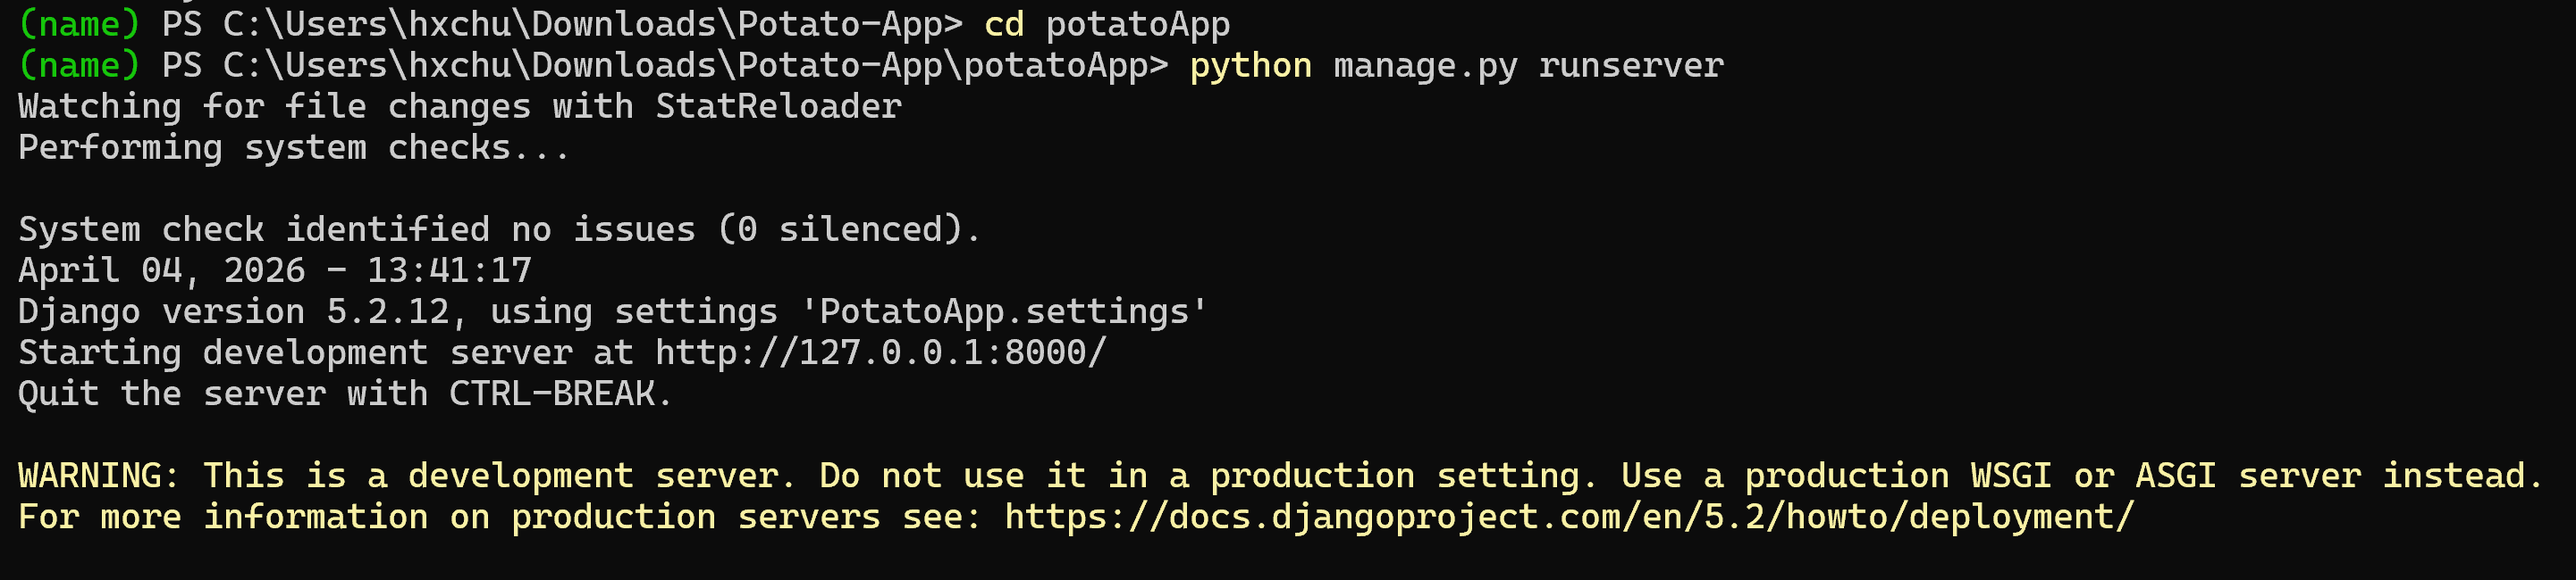
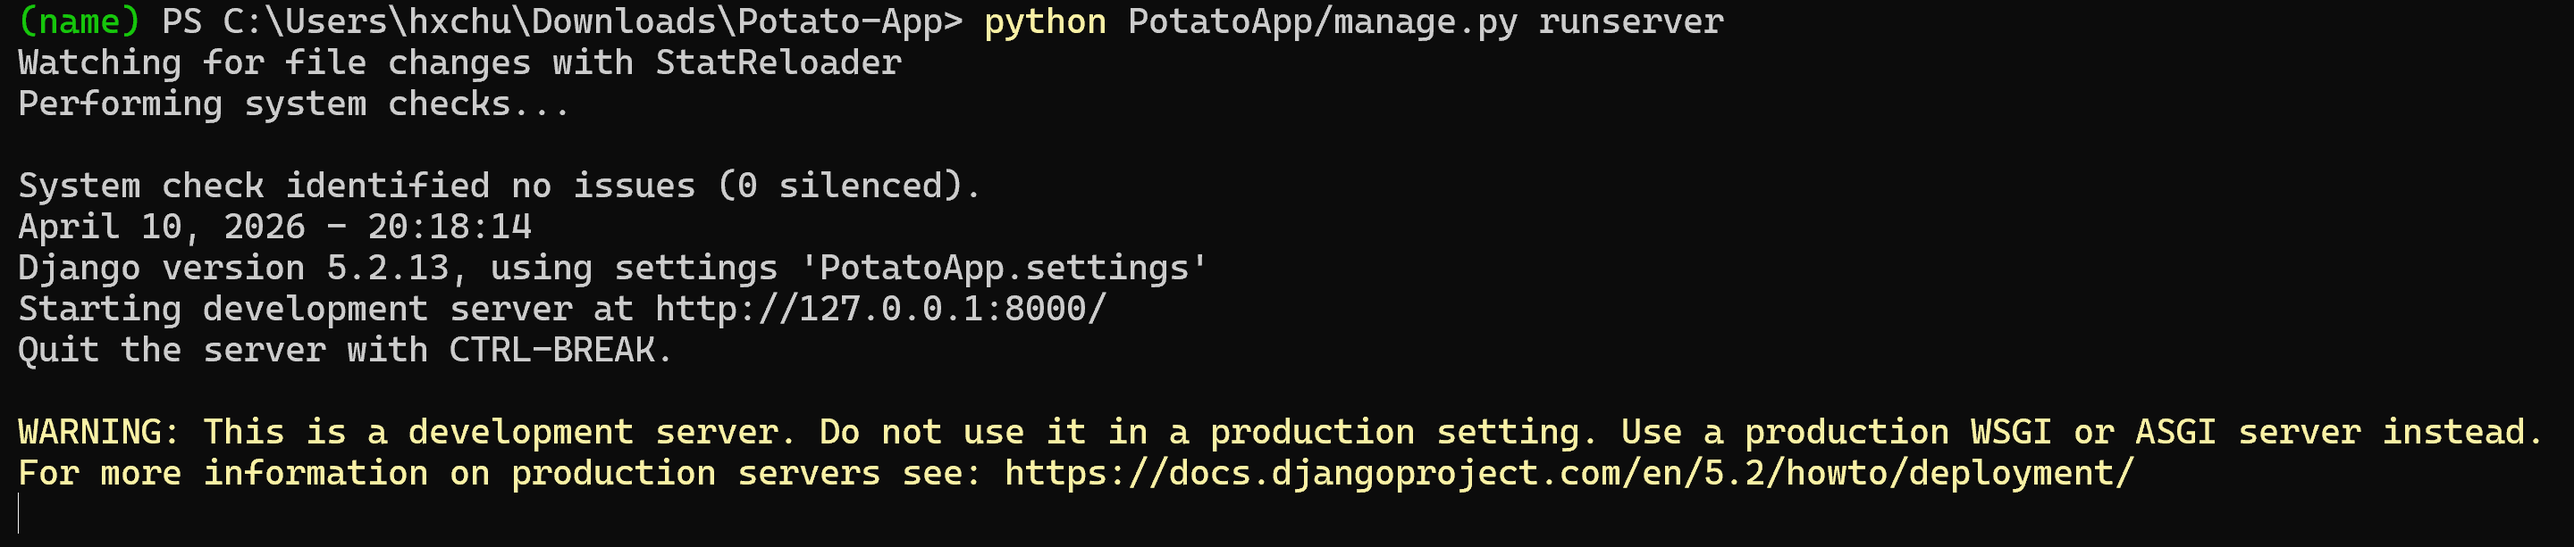
Updated csrf_token and input validation

diff --git a/PotatoApp/app/templates/potatoApp.html b/PotatoApp/app/templates/potatoApp.html
@@ -64,23 +64,24 @@ h1{
 	<nav></nav>
 	<div id = "hold">
 		<h1>Potato App</h1>
-		<form id = "form" enctype="multipart/form-data">
+		<form id = "form" enctype="multipart/form-data" method="POST">
+			{% csrf_token %}
 			<div>
 				<label for = "weather">Weather file (Excel/CSV):</label>
-				<input type = "file" class = "upload" name = "weather">
+				<input required type = "file" class = "upload" name = "weather" value="{{form.weather.value|default_if_none:''}}">
 			</div>
 			<div>
 				<label for = "planting_date">Planting Date:</label>
-				<input type = "date" name = "planting_date">
+				<input required type = "date" name = "planting_date" value="{{form.planting_date.value|default_if_none:''}}">
 			</div>
 			<div>
 				<label for = "spad_date">SPAD Acquisition date:</label>
-				<input type = "date" name = "spad_date">
+				<input required type = "date" name = "spad_date" value="{{form.spad_date.value|default_if_none:''}}">
 			</div>
 			<div>
 				<label for = "cultivar">Cultivar:</label>
-				<select name = "cultivar">
-					<option value = "None">--Select--</option>
+				<select required name = "cultivar" value="{{ form.cultivar.value|default_if_none:'' }}">
+					<option value = "">--Select--</option>
 					<option value = "Alpine Russet">Alpine Russet</option>
 					<option value = "Clearwater">Clearwater</option>
 					<option value = "Dakota Russet">Dakota Russet</option>
@@ -99,55 +100,20 @@ h1{
 			</div>
 			<div>
 				<label for = "spad_value">SPAD Value:</label>
-				<input type = "number" name = "spad_value"></input>
+				<input required type = "number" name = "spad_value" value="{{ form.spad_value.value|default_if_none:'' }}" placeholder="0.0"></input>
 			</div>
 			<div>
 				<label for = "irrigation">Irrigation level (inch):</label>
-				<input type = "number" name = "irrigation"></input>
+				<input type = "number" name = "irrigation" value="{{ form.irrigation.value|default_if_none:'' }}" placeholder="0"></input>
 			</div>
 			<div>
 				<p></p>
-				<button type="button" onclick = "handleClick()">Enter</button>
+				<button type="submit">Enter</button>
 			</div>
 		</form>
-		<div id = "output">Output:<br></div>
+		<div id = "output">Output:<br>{{ message }}</div>
 	</div>
 	<footer></footer>
 </body>
-<script>
-let out = document.getElementById("output");
-function handleClick(){
-	let input = document.getElementById("form");
-	let formData = new FormData(input);
-	fetch("/calculate/",{
-		method:"POST",
-		headers:{
-			"X-CSRFToken": getCookie("csrftoken")
-		},
-		body: formData
-	}).then(response=>response.json())
-	.then(data=>{
-		out.innerHTML = "Output:<br>" + data.message;
-	})
-}
-
-
-// DJango only
-function getCookie(name){
-	let cookieValue = null;
-	if(document.cookie && document.cookie!=''){
-		const cookies = document.cookie.split(";");
-		for(let cookie of cookies){
-			cookie = cookie.trim();
-			if(cookie.startsWith(name+'=')){
-				cookieValue = decodeURIComponent(cookie.slice(name.length+1));
-				break;
-			}
-		}
-	}
-	return cookieValue;
-}
-
-</script>
 
 </html>

diff --git a/PotatoApp/app/views.py b/PotatoApp/app/views.py
@@ -1,45 +1,120 @@
 from django.shortcuts import render
-from django.http import HttpResponse
-from django.http import JsonResponse
 from django.template import loader
+from django import forms
+import io
 import csv
-from io import TextIOWrapper
 from datetime import datetime
 import pandas as pd
 from xgboost import XGBRegressor
 import joblib
 import os
 
-# Create your views here.
-def members(request):
-    template = loader.get_template('potatoApp.html')
-    return HttpResponse(template.render())
-
 def FtoC(fahrenheit):
     celsius = (fahrenheit - 32) * 5.0/9.0
     return celsius
+
 def toMM(inches):
     mm = inches * 25.4
     return mm
 
-weather = []
-def calculate(request):
+def validate_file(file):
+    valid_extensions = ['.csv', '.xlsx']
+    filename = file.name
+    extension = os.path.splitext(filename)[1].lower()
+    if extension not in valid_extensions:
+        return False
+    return True
+
+def isNum(value):
+    try:
+        float(value)
+        return True
+    except ValueError:
+        return False
+
+def validate_input(request):
+    if not validate_file(request.FILES["weather"]):
+        return "Invalid file type. Please upload an Excel or CSV file."
+    if (request.POST.get("spad_date") < request.POST.get("planting_date")):
+        return "SPAD acquisition date must be after planting date."
+    if not isNum(request.POST.get("spad_value")):
+        return "SPAD value must be a number."
+    if not isNum(request.POST.get("irrigation")) and request.POST.get("irrigation")!="":
+        return "Irrigation value must be a number."
+    return None
+
+class Form(forms.Form):
+    weather = forms.FileField(label="Weather file (Excel/CSV)")
+    planting_date = forms.DateField(label="Planting date", widget=forms.DateInput(attrs={'type': 'date'}))
+    spad_date = forms.DateField(label="SPAD reading date", widget=forms.DateInput(attrs={'type': 'date'}))
+    spad_value = forms.FloatField(label="SPAD value")
+    irrigation = forms.FloatField(label="Irrigation amount (inches)", required=False)
+    cultivar = forms.ChoiceField(label="Cultivar", choices=[
+        ('Alpine Russet', 'Alpine Russet'),
+        ('Clearwater', 'Clearwater'),
+        ('Dakota Russet', 'Dakota Russet'),
+        ('Easton', 'Easton'),
+        ('FL 1867', 'FL 1867'),
+        ('FL 2137', 'FL 2137'),
+        ('Hamlin', 'Hamlin'),
+        ('Ivory Russet', 'Ivory Russet'),
+        ('Lamoka', 'Lamoka'),
+        ('MN13142', 'MN13142'),
+        ('MN13142Cold', 'MN13142Cold'),
+        ('Red Norland', 'Red Norland'),
+        ('Russet Burbank', 'Russet Burbank'),
+        ('Umatilla', 'Umatilla')
+    ])
+
+def ml_model(cultivar, accGDD, accMoist, spad_value):
+    script_dir = os.path.dirname(os.path.abspath(__file__))
+    model_path = os.path.join(script_dir, "final_xgb_model1.pkl")
+    scaler_path = os.path.join(script_dir, "scaler1.pkl")
+    model = joblib.load(model_path)
+    scaler = joblib.load(scaler_path)
+    cultivar_options = ['Alpine Russet', 'Clearwater', 'Dakota Russet', 'Easton','FL 1867', 'FL 2137', 'Hamlin', 'Ivory Russet', 'Lamoka','MN13142', 'MN13142Cold', 'Red Norland', 'Russet Burbank', 'Umatilla']
+    expected_columns = ['acGDDs', 'acMoist', 'SPAD'] + \
+                   [f'Cultivar_{c.replace(" ", "_")}' for c in cultivar_options[1:]]
+    cultivar_data = {f'Cultivar_{c.replace(" ", "_")}': 0 for c in cultivar_options}
+    cultivar_data[f'Cultivar_{cultivar.replace(" ", "_")}'] = 1
+    input_data = {
+        "accGDD": [accGDD],
+        "accMoist": [accMoist],
+        "SPAD": [spad_value]
+    }
+    input_data.update(cultivar_data)
+    input_df = pd.DataFrame(input_data)
+    input_df = input_df.reindex(columns=expected_columns, fill_value=0)
+    input_df_scaled = scaler.transform(input_df.values)
+    prediction = model.predict(input_df_scaled)
+    return prediction
+
+def members(request):
+    form = None
     if request.method == "POST":
-        #print(len(request.FILES))
-        #print(list(request.POST))
-        for key in request.POST:
-            if key.startswith("irrigation_date_"):
-                print(request.POST.get(key))
-            if key.startswith("irrigation_amount_"):
-                print(request.POST.get(key))
-        
-        weather_data = request.FILES.get("weather")
-        weather_decoded_file = TextIOWrapper(weather_data.file, encoding='utf-8')
+        # Validate form data
+        form = Form(request.POST)
+        validation_error = validate_input(request)
+        if validation_error:
+            return render(request, 'potatoApp.html', {"message": validation_error,"form":form})
+        # Get weather data
+        weather_data = request.FILES["weather"]
+        weather_decoded_file = weather_data.read().decode('utf-8')
+        weather_decoded_file = io.StringIO(weather_decoded_file)
+        if weather_data.name.endswith('.xlsx') or weather_data.name.endswith('.xls'):
+            df = pd.read_excel(weather_decoded_file)
+            weather_decoded_file = io.StringIO()
+            df.to_csv(weather_decoded_file, index=False)
+            weather_decoded_file.seek(0)
         weather_reader = csv.reader(weather_decoded_file)
+
+        weather = []
         for row in weather_reader:
             weather.append(row)
         for i in range(5):
             weather.pop(0)
+        
+        # get weather data and calculate accumulated GDD and moisture
         planting_date = request.POST.get("planting_date")
         planting_date = datetime.strptime(planting_date, "%Y-%m-%d").date()
         spad_date = request.POST.get("spad_date")
@@ -52,39 +127,19 @@ def calculate(request):
             if date >= planting_date and date <= spad_date:
                 tmax = FtoC(float(row[7]))
                 tmin = FtoC(float(row[9]))
-                gdd = (tmax + tmin) / 2 - 10
+                gdd = (tmax + tmin) / 2 - 7
                 if gdd < 0:
                     gdd = 0
                 accGDD += gdd
                 precip = toMM(float(row[11]))
                 accMoist += precip
         irrigation_value = request.POST.get("irrigation")
-        if irrigation_value:
+        if irrigation_value!="":
             accMoist += toMM(float(irrigation_value))
         
-        script_dir = os.path.dirname(os.path.abspath(__file__))
-        model_path = os.path.join(script_dir, "final_xgb_model1.pkl")
-        scaler_path = os.path.join(script_dir, "scaler1.pkl")
-        model = joblib.load(model_path)
-        scaler = joblib.load(scaler_path)
-        cultivar_options = ['Alpine Russet', 'Clearwater', 'Dakota Russet', 'Easton','FL 1867', 'FL 2137', 'Hamlin', 'Ivory Russet', 'Lamoka','MN13142', 'MN13142Cold', 'Red Norland', 'Russet Burbank', 'Umatilla']
-        expected_columns = ['acGDDs', 'acMoist', 'SPAD'] + \
-                   [f'Cultivar_{c.replace(" ", "_")}' for c in cultivar_options[1:]]
-        cultivar = request.POST.get("cultivar")
-        cultivar_data = {f'Cultivar_{c.replace(" ", "_")}': 0 for c in cultivar_options}
-        cultivar_data[f'Cultivar_{cultivar.replace(" ", "_")}'] = 1
-        input_data = {
-            "accGDD": [accGDD],
-            "accMoist": [accMoist],
-            "SPAD": [request.POST.get("spad_value")]
-        }
-        input_data.update(cultivar_data)
-        input_df = pd.DataFrame(input_data)
-        input_df = input_df.reindex(columns=expected_columns, fill_value=0)
-        input_df_scaled = scaler.transform(input_df.values)
-        prediction = model.predict(input_df_scaled)
-        
-        result = {"message": prediction.tolist()}
-        return JsonResponse(result)
+        # Run ML model and return prediction
+        prediction = ml_model(request.POST.get("cultivar"), accGDD, accMoist, float(request.POST.get("spad_value")))
+        return render(request, 'potatoApp.html', {"message": prediction.tolist(),"form": form})
     else:
-        return JsonResponse({"error": "Invalid request method."}, status=400)
+        form = Form()
+    return render(request, 'potatoApp.html', {"form": form})

diff --git a/PotatoApp/app/urls.py b/PotatoApp/app/urls.py
@@ -3,5 +3,4 @@ from . import views
 
 urlpatterns = [
     path('app/', views.members, name='members'),
-    path('calculate/', views.calculate, name='calculate'),
 ]

diff --git a/README.md b/README.md
@@ -13,7 +13,7 @@ Location of the venv underlined in red.
 ![venv start](./img/venv_start.png)
 5. If this is your first time running the app, run ```pip install -r requirements.txt```. This may take a while to run. Otherwise skip this step if already done previously.
 ![downloading third party libraries](./img/pip_install.png)
-6. To start the server, move into the potatoApp directory and run ```python manage.py runserver```.
+6. To start the server, start at the repo root and run ```python PotatoApp/manage.py runserver```.
 ![run server](./img/server_start.png)
 7. Open up the url ```http://127.0.0.1:8000/app``` in your preferred browser. From here, you may use the app.
 8. Once you are done using the app, press ```Ctrl + C``` to stop the server. Then run ```deactivate``` from the terminal to stop the venv.
